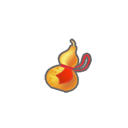
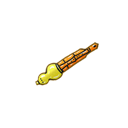
fix block amount when harvesting squash; new Gourd Charm art

Changed region(s): [[0.25, 0.2812, 0.7812, 0.75]]

diff --git a/src/main/java/thesimpleton/powers/PlantSquashPower.java b/src/main/java/thesimpleton/powers/PlantSquashPower.java
@@ -45,7 +45,7 @@ public class PlantSquashPower extends AbstractCropPower {
   protected int harvestAction(int harvestAmount) {
     AbstractPlayer player = SimpletonUtil.getPlayer();
     if (harvestAmount > 0) {
-      AbstractDungeon.actionManager.addToBottom(new GainBlockAction(player, player, BLOCK_PER_STACK));
+      AbstractDungeon.actionManager.addToBottom(new GainBlockAction(player, player, harvestAmount * BLOCK_PER_STACK));
     }
     return harvestAmount;
   }
